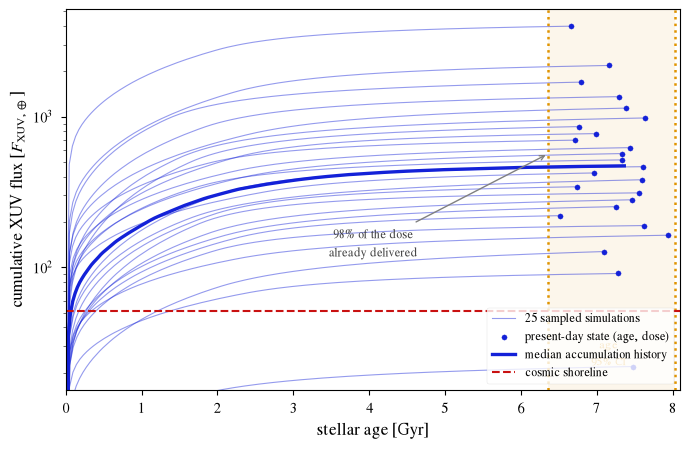
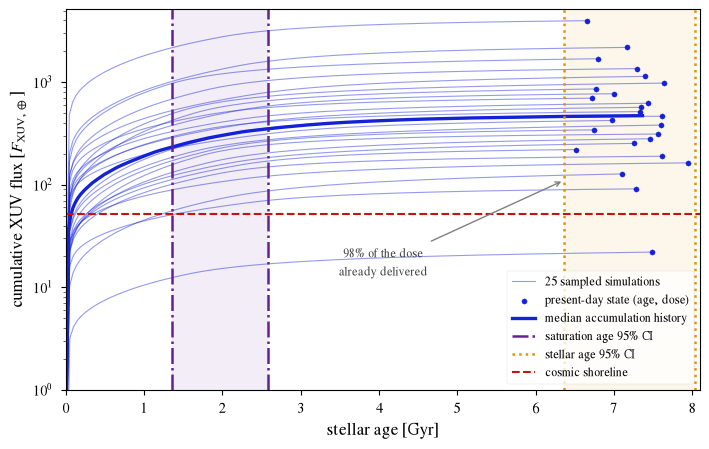
Add saturation-age interval and fix the low-flux clipping in the history plot
The lowest-flux trajectory appeared to begin at 2 Gyr; that was the log axis
floor (shoreline x 0.3) clipping an XUV-quiet star whose whole curve sits low
(it rises 3 -> 22 Earth units and crosses the old floor near 2 Gyr, with 69%
of its dose already in place there). The floor is lowered to the minimum shown
flux, so every trajectory is visible climbing from age zero.

The saturation-age 95%% interval is now drawn as purple dash-dot verticals,
distinct from the orange dotted stellar-age interval. It is computed from the
sampled break of each trial's XUV relation, dXUVEngleMidLateD (the log10 age
at which activity leaves saturation): median 1.98 Gyr, 95%% CI [1.35, 2.59].
That band sits exactly at the knee of the accumulation curves -- activity
saturates, the flux climbs steeply, then declines after ~2 Gyr and flattens
long before the stellar-age interval at ~7 Gyr. A new test asserts saturation
ends before the youngest allowed stellar age.

diff --git a/AccumulationHistory/dataAccumulationHistory.py b/AccumulationHistory/dataAccumulationHistory.py
@@ -53,18 +53,25 @@ def fdReadOption(sPath, sKey):
 
 
 def ftLoadTrajectory(sTrialDirectory):
-    """Return (absolute stellar age [Gyr], cumulative flux [Earth units])."""
+    """Return (age [Gyr], cumulative flux [Earth units], saturation age [Gyr]).
+
+    The saturation age is 10^d, where d = dXUVEngleMidLateD is the break of the
+    sampled XUV relation, expressed in log10(age/Gyr): activity is saturated
+    below it and declines above it.
+    """
     saForward = glob.glob(os.path.join(sTrialDirectory, "*.b.forward"))
     if not saForward:
         return None
     daForward = np.loadtxt(saForward[0])
     if daForward.ndim != 2 or len(daForward) < 5:
         return None
-    dStartAge = fdReadOption(os.path.join(sTrialDirectory, "star.in"), "dAge")
-    if not np.isfinite(dStartAge):
+    sStarPath = os.path.join(sTrialDirectory, "star.in")
+    dStartAge = fdReadOption(sStarPath, "dAge")
+    dBreak = fdReadOption(sStarPath, "dXUVEngleMidLateD")
+    if not np.isfinite(dStartAge) or not np.isfinite(dBreak):
         return None
     daAgeGyr = (dStartAge + daForward[:, 0]) / 1e9
-    return daAgeGyr, daForward[:, 1] / D_CUMULATIVE_EARTH_FLUX
+    return daAgeGyr, daForward[:, 1] / D_CUMULATIVE_EARTH_FLUX, 10.0 ** dBreak
 
 
 def flistLoadTrajectories(sSweepDirectory):
@@ -75,17 +82,18 @@ def flistLoadTrajectories(sSweepDirectory):
     summarizes the identical population as the flux-distribution steps rather
     than including unconverged extremes.
     """
-    listTrajectories = []
+    listTrajectories, listSaturationAges = [], []
     for sTrial in sorted(glob.glob(os.path.join(sSweepDirectory,
                                                 "*_xuv_rand_*"))):
         tTrajectory = ftLoadTrajectory(sTrial)
         if tTrajectory is not None and \
                 D_LOWER_BOUND <= tTrajectory[1][-1] <= D_UPPER_BOUND:
-            listTrajectories.append(tTrajectory)
+            listTrajectories.append((tTrajectory[0], tTrajectory[1]))
+            listSaturationAges.append(tTrajectory[2])
     if len(listTrajectories) < I_MIN_COVERAGE:
         raise ValueError(f"only {len(listTrajectories)} usable trajectories "
                          f"in {sSweepDirectory}")
-    return listTrajectories
+    return listTrajectories, np.array(listSaturationAges)
 
 
 def fdMaxCoveredAge(listTrajectories, iFloor):
@@ -186,6 +194,15 @@ def fdictSummarizeAge(daAgeSamples):
     }
 
 
+def fdictSummarizeSaturation(daSaturationAges):
+    """Return the saturation-age median and 95% interval in Gyr."""
+    return {
+        "median": float(np.median(daSaturationAges)),
+        "ci95": [float(np.percentile(daSaturationAges, 2.5)),
+                 float(np.percentile(daSaturationAges, 97.5))],
+    }
+
+
 def ftParseArguments():
     """Parse and return command-line arguments."""
     parser = argparse.ArgumentParser(
@@ -201,13 +218,14 @@ def ftParseArguments():
 def main():
     """Build the accumulation history and its flatness diagnostics."""
     args = ftParseArguments()
-    listTrajectories = flistLoadTrajectories(
+    listTrajectories, daSaturationAges = flistLoadTrajectories(
         os.path.dirname(args.converged_flux))
     dictAge = fdictSummarizeAge(np.loadtxt(args.age_samples))
     dictHistory = fdictStackOnAgeGrid(listTrajectories, dictAge["ci95"][1])
     dElasticity = fdComputeElasticity(listTrajectories)
     dictSummary = {
         "dictAgePosterior": dictAge,
+        "dictSaturationAge": fdictSummarizeSaturation(daSaturationAges),
         "dictHistory": dictHistory,
         "listShownTrajectories": flistSelectShownTrajectories(listTrajectories),
         "dictFractionMilestones": fdictFractionMilestones(listTrajectories),
@@ -230,6 +248,10 @@ def fnPrintSummary(dictSummary):
     print("Fraction of final cumulative XUV flux accumulated by age:")
     for sAge, dFraction in dictSummary["dictFractionMilestones"].items():
         print(f"  by {sAge} Gyr: {100 * dFraction:5.1f}%")
+    dictSat = dictSummary["dictSaturationAge"]
+    print(f"Saturation age: median {dictSat['median']:.2f} Gyr, 95% CI "
+          f"[{dictSat['ci95'][0]:.2f}, {dictSat['ci95'][1]:.2f}] Gyr "
+          f"(activity declines after this).")
     dictAge = dictSummary["dictAgePosterior"]
     print(f"Age 95% CI [{dictAge['ci95'][0]:.2f}, {dictAge['ci95'][1]:.2f}] "
           f"Gyr; by its LOWER bound the planet already has "

diff --git a/AccumulationHistory/plotAccumulationHistory.py b/AccumulationHistory/plotAccumulationHistory.py
@@ -31,6 +31,7 @@ S_DIRECTORY = os.path.dirname(os.path.abspath(__file__))
 
 S_COLOR_HISTORY = vplot.colors.dark_blue
 S_COLOR_AGE = vplot.colors.orange
+S_COLOR_SATURATION = vplot.colors.purple
 S_COLOR_SHORELINE = vplot.colors.red
 
 
@@ -60,18 +61,19 @@ def fnPlotHistory(axis, dictHistory):
               label="median accumulation history")
 
 
-def fnPlotAgeInterval(axis, dictAge, dFractionLower):
-    """Mark the age posterior's 95% interval with dotted verticals."""
-    for dEdge in dictAge["ci95"]:
-        axis.axvline(dEdge, color=S_COLOR_AGE, linestyle=":", linewidth=1.8)
-    axis.axvspan(dictAge["ci95"][0], dictAge["ci95"][1], color=S_COLOR_AGE,
-                 alpha=0.08, linewidth=0)
-    dMid = np.sqrt(dictAge["ci95"][0] * dictAge["ci95"][1])
-    axis.text(dMid, 0.05, "age\n95% CI", color=S_COLOR_AGE, ha="center",
-              va="bottom", fontsize=8, transform=axis.get_xaxis_transform())
+def fnPlotVerticalInterval(axis, dCi95, sColor, sStyle, sLabel):
+    """Mark a 95% interval with two vertical lines and a light band."""
+    for iIndex, dEdge in enumerate(dCi95):
+        axis.axvline(dEdge, color=sColor, linestyle=sStyle, linewidth=1.8,
+                     label=sLabel if iIndex == 0 else None)
+    axis.axvspan(dCi95[0], dCi95[1], color=sColor, alpha=0.08, linewidth=0)
+
+
+def fnAnnotateDose(axis, dCi95Lower, dFractionLower):
+    """Annotate the fraction of the dose delivered by the age lower bound."""
     axis.annotate(f"{100 * dFractionLower:.0f}% of the dose\n"
                   "already delivered",
-                  xy=(dictAge["ci95"][0], 0.62), xytext=(0.5, 0.35),
+                  xy=(dCi95Lower, 0.55), xytext=(0.5, 0.30),
                   textcoords=axis.transAxes, xycoords=axis.get_xaxis_transform(),
                   ha="center", fontsize=8.5, color="0.25",
                   arrowprops=dict(arrowstyle="->", color="0.5", linewidth=1))
@@ -82,17 +84,23 @@ def main():
     sOutputPath = sys.argv[1]
     dictSummary = fdictLoadHistory()
     os.makedirs(os.path.dirname(sOutputPath), exist_ok=True)
-    figure, axis = plt.subplots(figsize=(7, 4.6))
+    figure, axis = plt.subplots(figsize=(7.2, 4.6))
     fnPlotShownTrajectories(axis, dictSummary["listShownTrajectories"])
     fnPlotHistory(axis, dictSummary["dictHistory"])
-    fnPlotAgeInterval(axis, dictSummary["dictAgePosterior"],
-                      dictSummary["dFractionByAgeLowerBound"])
+    fnPlotVerticalInterval(axis, dictSummary["dictSaturationAge"]["ci95"],
+                           S_COLOR_SATURATION, "-.", "saturation age 95% CI")
+    fnPlotVerticalInterval(axis, dictSummary["dictAgePosterior"]["ci95"],
+                           S_COLOR_AGE, ":", "stellar age 95% CI")
+    fnAnnotateDose(axis, dictSummary["dictAgePosterior"]["ci95"][0],
+                   dictSummary["dFractionByAgeLowerBound"])
     axis.axhline(D_SHORELINE_FLUX, color=S_COLOR_SHORELINE, linestyle="--",
                  linewidth=1.5, label="cosmic shoreline")
+    daShownFlux = [dFlux for d in dictSummary["listShownTrajectories"]
+                   for dFlux in d["daFlux"]]
     dMaxFlux = max(d["dFinalFlux"]
                    for d in dictSummary["listShownTrajectories"])
     axis.set_yscale("log")
-    axis.set_ylim(D_SHORELINE_FLUX * 0.3, dMaxFlux * 1.3)
+    axis.set_ylim(max(min(daShownFlux), 1.0), dMaxFlux * 1.3)
     axis.set_xlim(0, max(d["dPresentAge"]
                          for d in dictSummary["listShownTrajectories"]) * 1.02)
     axis.set_xlabel("stellar age [Gyr]")

diff --git a/AccumulationHistory/tests/test_integrity.py b/AccumulationHistory/tests/test_integrity.py
@@ -41,6 +41,20 @@ def test_shown_endpoints_sample_the_age_interval():
     assert abs(np.median(daEndAge) - dMedian) < 1.0
 
 
+def test_saturation_precedes_and_shapes_the_plateau():
+    """Saturation ends early and well before the stellar-age interval."""
+    dictSummary = fdictLoadHistory()
+    dictSat = dictSummary["dictSaturationAge"]
+    dLower, dMedian, dUpper = (dictSat["ci95"][0], dictSat["median"],
+                               dictSat["ci95"][1])
+    assert 0 < dLower < dMedian < dUpper
+    assert dUpper < dictSummary["dictAgePosterior"]["ci95"][0], (
+        "the saturation phase must end before the youngest allowed stellar age")
+    dMostAccumulated = dictSummary["dictFractionMilestones"]["3.0"]
+    assert dMostAccumulated > 0.5, (
+        "most of the dose should arrive around the saturation epoch")
+
+
 def test_history_is_monotone_and_bracketed():
     """The median accumulation curve rises monotonically inside its envelope."""
     dictHistory = fdictLoadHistory()["dictHistory"]
